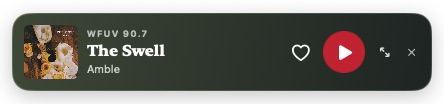
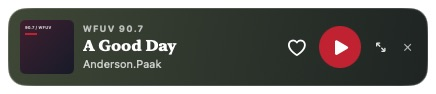
Remove mini player shadow

Changed region(s): [[0.0, 0.0851, 0.9839, 0.9574]]

diff --git a/Sources/FUVListenerMac/ListenerView.swift b/Sources/FUVListenerMac/ListenerView.swift
@@ -21,8 +21,7 @@ struct ListenerView: View {
                 if playerCollapsed {
                     CollapsedPlayerPanel(radio: radio, onExpand: { setCollapsed(false) },
                                          onClose: { windowReference.window?.close() })
-                        .padding(.horizontal, 12)
-                        .padding(.vertical, 13)
+                        .padding(8)
                 } else {
                     fullPlayer(in: geometry.size)
                 }
@@ -33,6 +32,7 @@ struct ListenerView: View {
                 guard windowReference.window !== window else { return }
                 windowReference.window = window
                 windowReference.regularStyleMask = window.styleMask
+                windowReference.regularHasShadow = window.hasShadow
                 configureWindow(window, collapsed: playerCollapsed, resize: playerCollapsed)
             })
         }
@@ -86,18 +86,20 @@ struct ListenerView: View {
     }
 
     private func configureWindow(_ window: NSWindow, collapsed: Bool, resize: Bool) {
-        let miniSize = NSSize(width: 444, height: 104)
+        let miniSize = NSSize(width: 436, height: 94)
         // Let the window cross between both size ranges before applying the new limits.
         window.contentMinSize = miniSize
         window.contentMaxSize = NSSize(width: 720, height: 950)
 
         if collapsed {
             window.styleMask = .borderless
+            window.hasShadow = false
             window.isOpaque = false
             window.backgroundColor = .clear
             window.isMovableByWindowBackground = true
         } else {
             window.styleMask = windowReference.regularStyleMask
+            window.hasShadow = windowReference.regularHasShadow
             window.isOpaque = true
             window.backgroundColor = .windowBackgroundColor
             window.isMovableByWindowBackground = false
@@ -156,6 +158,7 @@ struct ListenerView: View {
 private final class WeakWindowReference {
     weak var window: NSWindow?
     var regularStyleMask: NSWindow.StyleMask = [.titled, .closable, .miniaturizable, .resizable]
+    var regularHasShadow = true
 }
 
 private struct WindowObserver: NSViewRepresentable {

diff --git a/Sources/FUVListenerMac/PlayerPanel.swift b/Sources/FUVListenerMac/PlayerPanel.swift
@@ -245,7 +245,6 @@ struct CollapsedPlayerPanel: View {
             RoundedRectangle(cornerRadius: 18)
                 .fill(LinearGradient(colors: PlayerCardColors.colors(for: radio.currentKey),
                                      startPoint: .topLeading, endPoint: .bottomTrailing))
-                .shadow(color: .black.opacity(0.23), radius: 10, y: 5)
                 .overlay {
                     RoundedRectangle(cornerRadius: 18)
                         .strokeBorder(.white.opacity(0.15), lineWidth: 1)

diff --git a/docs/DESIGN_REVIEW.md b/docs/DESIGN_REVIEW.md
@@ -15,7 +15,7 @@ The goal is a small radio player that keeps the live controls in view while list
 - Live radio has no seekable track progress, so the player uses a live indicator instead of a misleading progress bar.
 - The red play/pause control is the primary action. Favorites and Spotify remain beside the song information in the expanded player.
 - The history pane uses a separate scroll view so the player never scrolls away.
-- The chevron collapses the entire window to a frameless 420 × 78 point card inside a transparent 444 × 104 point window. Balanced 18-point corners, an inset, and a soft shadow make all four corners visible. The card includes artwork, song details, a favorite heart, play/pause, expand, and close controls. The heart uses the same local favorites as the wide view and is disabled when no song is identified. Expanding restores the normal window chrome and the last selected Playlist or Favorites tab. The mode persists across launches.
+- The chevron collapses the entire window to a frameless 420 × 78 point card inside a transparent 436 × 94 point window. Balanced 18-point corners and a small inset keep all four corners visible without a black drop shadow. The card includes artwork, song details, a favorite heart, play/pause, expand, and close controls. The heart uses the same local favorites as the wide view and is disabled when no song is identified. Expanding restores the normal window chrome and the last selected Playlist or Favorites tab. The mode persists across launches.
 - The expanded player puts play/pause beside the artwork to make room for more playlist rows. Each favorite still has a Spotify link that opens outside the app.
 - The wide window is resizable from 390–720 points wide and 500–950 points tall. Album art and motion grow in the enlarged layout.
 
